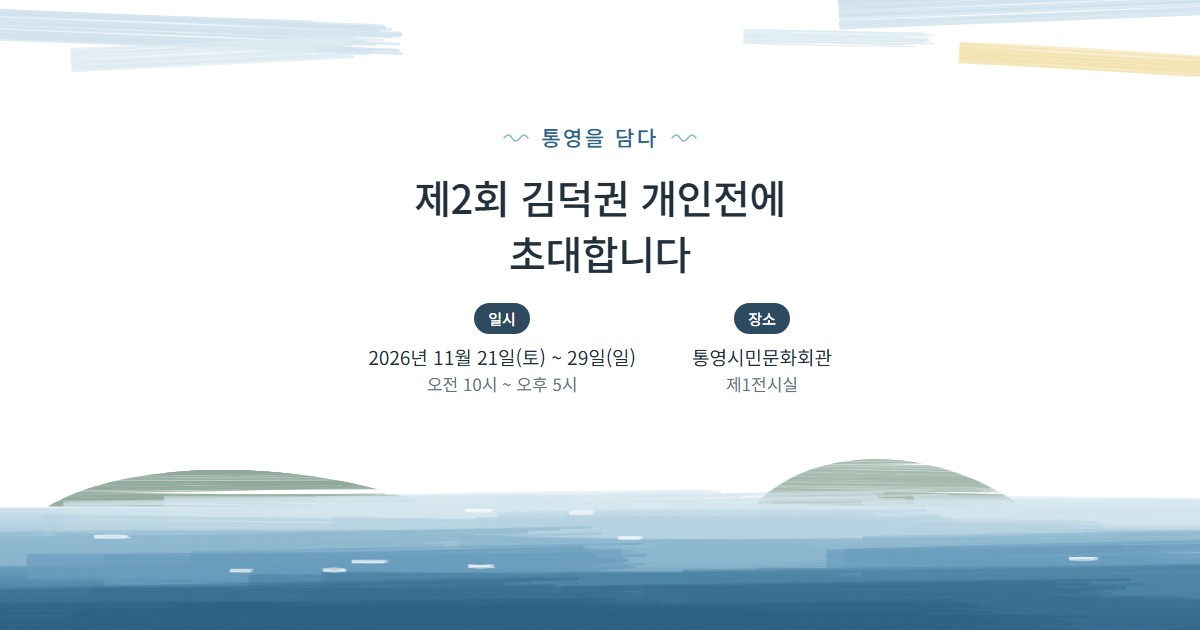
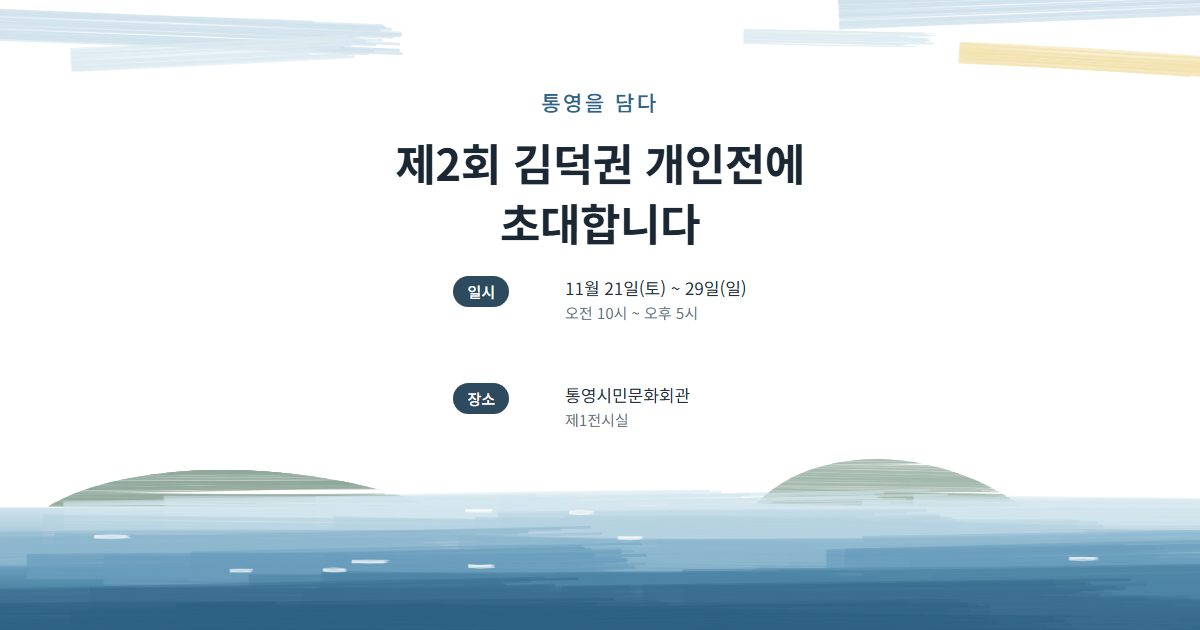
전화 걸기/번호 복사, 물결 제거, 제목 강조, 항목 두 칸 정렬

Changed region(s): [[0.3083, 0.2111, 0.7092, 0.6937], [0.4317, 0.1508, 0.555, 0.181]]

diff --git a/index.html b/index.html
@@ -68,7 +68,7 @@
   .paint.top { top: 0; height: 120px; }
   .paint.bottom { bottom: 0; height: 180px; }
   .title-block { display: flex; flex-direction: column; align-items: center; gap: 12px; position: relative; }
-  h1 { font-weight: 500; font-size: clamp(26px, 7.8vw, 36px); line-height: 1.4; letter-spacing: -.01em; margin: 0; text-wrap: balance; }
+  h1 { font-weight: 700; font-size: clamp(30px, 9vw, 40px); line-height: 1.35; color: #1B2833; letter-spacing: -.01em; margin: 0; text-wrap: balance; }
   .theme {
     display: flex;
     align-items: center;
@@ -78,9 +78,18 @@
     color: var(--sea);
     letter-spacing: .12em;
   }
-  .theme svg { width: 26px; height: 10px; color: var(--sea-light); }
-  .facts { display: flex; flex-direction: column; align-items: center; gap: 22px; position: relative; }
-  .fact { display: flex; flex-direction: column; align-items: center; gap: 8px; }
+  /* 항목 이름(왼쪽) + 내용(오른쪽) 두 칸 */
+  .facts, .schedule {
+    position: relative;
+    display: grid;
+    grid-template-columns: max-content auto;
+    justify-content: center;
+    column-gap: 14px;
+    row-gap: 16px;
+    text-align: left;
+  }
+  .fact { display: contents; }
+  .fact .pill { justify-self: stretch; text-align: center; align-self: start; margin-top: 2px; }
   .pill {
     display: inline-block;
     background: var(--navy);
@@ -90,8 +99,8 @@
     padding: 2px 14px;
     border-radius: 999px;
   }
-  .fact p { font-size: 19px; line-height: 1.55; font-variant-numeric: tabular-nums; }
-  .fact p small { display: block; font-size: 17px; color: var(--muted); }
+  .fact p { font-size: 17px; line-height: 1.6; font-variant-numeric: tabular-nums; }
+  .fact p small { display: block; font-size: 15px; color: var(--muted); }
 
   /* ── 상세: 옅은 바탕 위에 항목마다 테두리 상자 ── */
   .details {
@@ -134,7 +143,6 @@
   .greeting p + p { margin-top: 1.2em; }
   .signature { font-size: 18px; font-weight: 500; }
   .signature span { color: var(--muted); font-size: 14px; font-weight: 400; margin-right: 8px; }
-  .schedule { display: flex; flex-direction: column; align-items: center; gap: 22px; }
   .notice { font-size: 17px; line-height: 1.9; }
   .closing-block { display: flex; flex-direction: column; align-items: center; gap: 16px; padding-block: 20px 12px; }
   .closing { font-size: 18px; line-height: 2; color: var(--ink); }
@@ -262,6 +270,9 @@
     padding: 14px;
     cursor: pointer;
   }
+  .phone-num { font-size: 24px; font-weight: 700; letter-spacing: .04em; font-variant-numeric: tabular-nums; }
+  a.solid-btn { display: block; text-decoration: none; }
+  .line-btn.wide { border-radius: 10px; padding: 12px; font-size: 16px; }
   .hint { font-size: 14px; color: var(--muted); min-height: 1.6em; }
   .popup-actions { display: grid; gap: 8px; }
 </style>
@@ -274,14 +285,12 @@
     <canvas class="paint top" id="paint-top" aria-hidden="true"></canvas>
     <div class="title-block">
       <p class="theme">
-        <svg viewBox="0 0 26 10" fill="none" stroke="currentColor" stroke-width="1.5" stroke-linecap="round" aria-hidden="true"><path d="M1 5c3-4 6-4 8 0s5 4 8 0 5-4 8 0"/></svg>
         통영을 담다
-        <svg viewBox="0 0 26 10" fill="none" stroke="currentColor" stroke-width="1.5" stroke-linecap="round" aria-hidden="true"><path d="M1 5c3-4 6-4 8 0s5 4 8 0 5-4 8 0"/></svg>
       </p>
       <h1>제2회 김덕권 개인전에<br>초대합니다</h1>
     </div>
     <div class="facts">
-      <div class="fact"><span class="pill">일시</span><p>2026년 11월 21일(토) ~ 29일(일)<small>오전 10시 ~ 오후 5시</small></p></div>
+      <div class="fact"><span class="pill">일시</span><p>11월 21일(토) ~ 29일(일)<small>오전 10시 ~ 오후 5시</small></p></div>
       <div class="fact"><span class="pill">장소</span><p>통영시민문화회관<small>제1전시실</small></p></div>
     </div>
     <canvas class="paint bottom" id="paint-bottom" aria-hidden="true"></canvas>
@@ -341,8 +350,12 @@
 <div class="scrim" id="scrim" hidden>
   <div class="popup" id="pop-call" role="dialog" aria-modal="true" aria-labelledby="call-h" hidden>
     <h3 id="call-h">전화</h3>
-    <div class="slot">연락처가 들어갈 자리입니다.<br>번호를 받으면 넣겠습니다.</div>
-    <button class="close" type="button">닫기</button>
+    <p class="phone-num" id="phone">010-4087-9490</p>
+    <div class="popup-actions">
+      <a class="solid-btn" href="tel:01040879490">전화 걸기</a>
+      <button class="line-btn wide" id="copy-phone" type="button">번호 복사</button>
+      <button class="close" type="button">닫기</button>
+    </div>
   </div>
 
   <div class="popup" id="pop-map" role="dialog" aria-modal="true" aria-labelledby="map-h" hidden>
@@ -517,6 +530,13 @@
       copy(document.getElementById('addr').textContent,
         function () { show('복사되었습니다'); },
         function () { show('주소를 길게 눌러 복사해 주세요'); });
+    });
+    var phoneBtn = document.getElementById('copy-phone');
+    phoneBtn.addEventListener('click', function () {
+      function show(msg) { phoneBtn.textContent = msg; setTimeout(function () { phoneBtn.textContent = '번호 복사'; }, 2000); }
+      copy(document.getElementById('phone').textContent,
+        function () { show('복사되었습니다'); },
+        function () { show('번호를 길게 눌러 복사해 주세요'); });
     });
     var urlInput = document.getElementById('share-url');
     if (/github\.io$/.test(location.hostname)) urlInput.value = location.origin + location.pathname;
